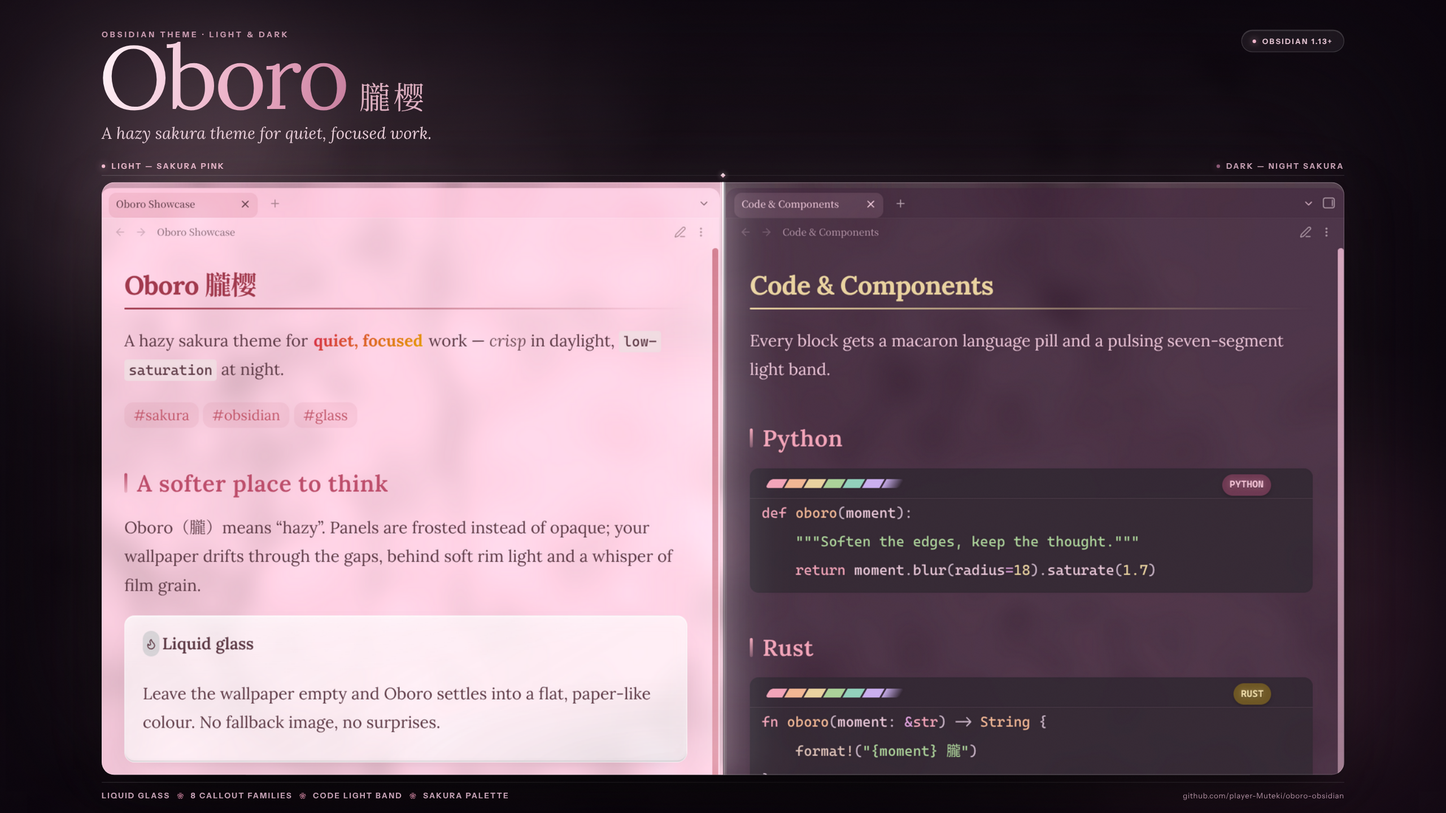
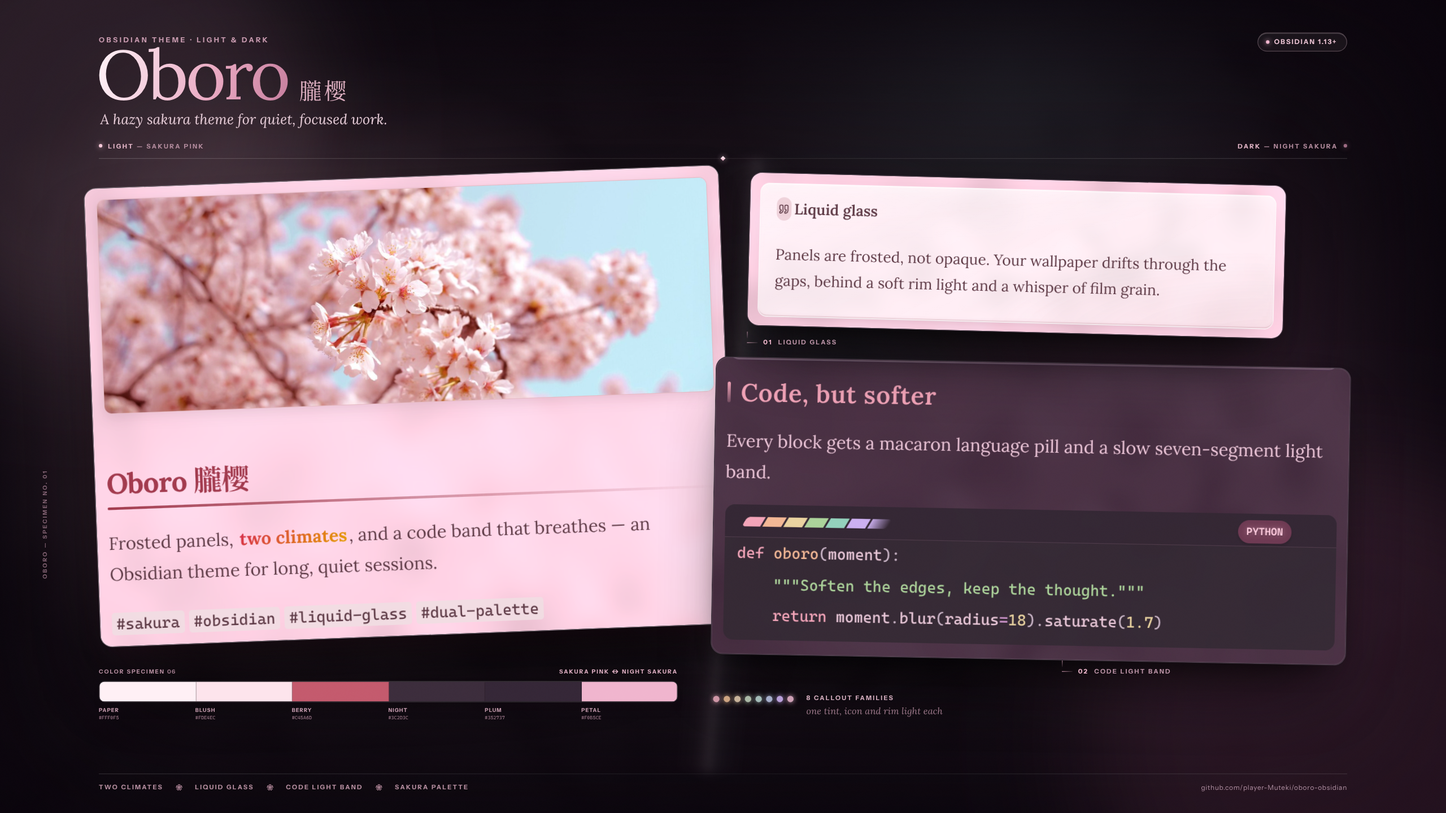
docs: redesign promo as an editorial specimen board

diff --git a/CHANGELOG.md b/CHANGELOG.md
@@ -9,8 +9,9 @@
 
 ### Added
 
-- **宣传图**：`screenshots/promo.png`（2560×1440），浅色 / 深色同框，
-  README 中英文预览置顶。
+- **宣传图**：`screenshots/promo.png`（2560×1440），改为“设计标本板”构图：
+  浅色笔记大卡 + 浅色 Liquid Glass callout + 深色代码卡 + 六色色板 + 8 组
+  callout 色点，并带 `01` / `02` 标注；README 中英文预览置顶。
 
 ### Changed
 

diff --git a/README.md b/README.md
@@ -11,7 +11,7 @@ palette — one theme, two editors.
 
 ## Preview
 
-![Oboro — light and dark](screenshots/promo.png)
+![Oboro — light and dark specimen board](screenshots/promo.png)
 
 Sakura Pink (light):
 
